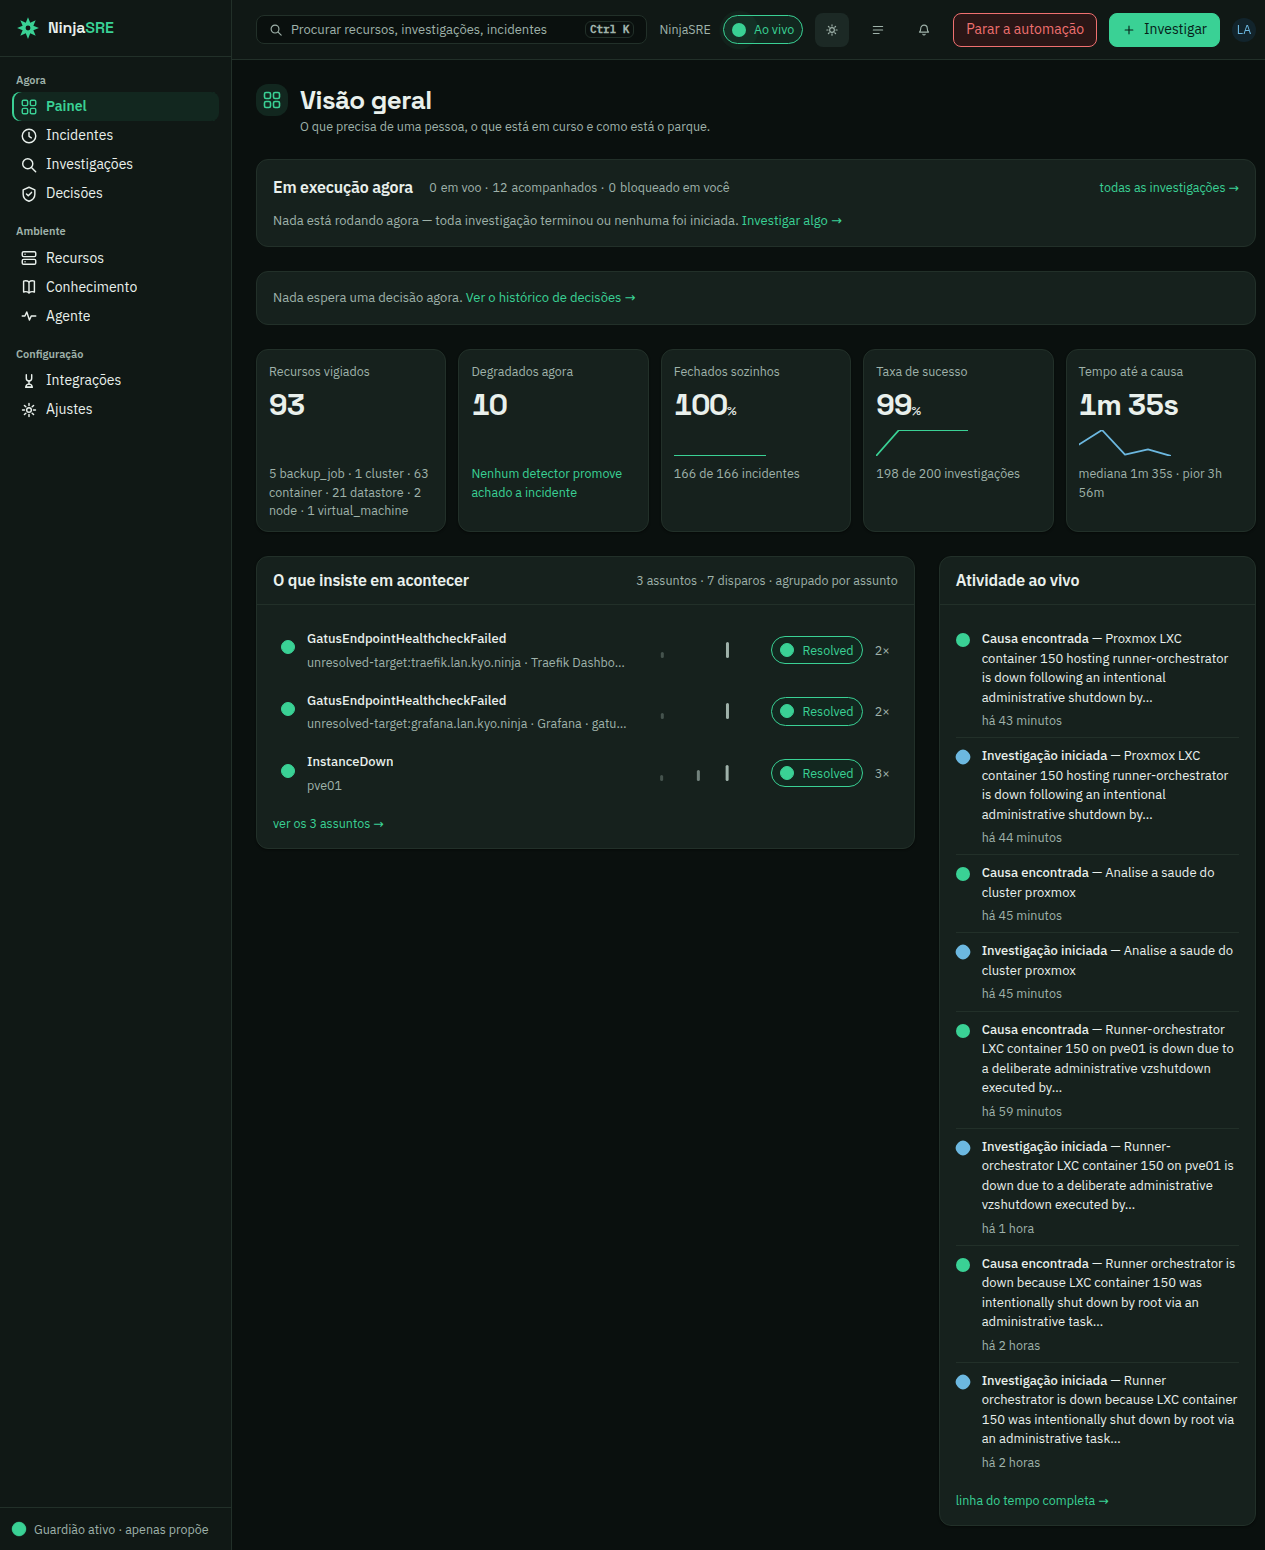
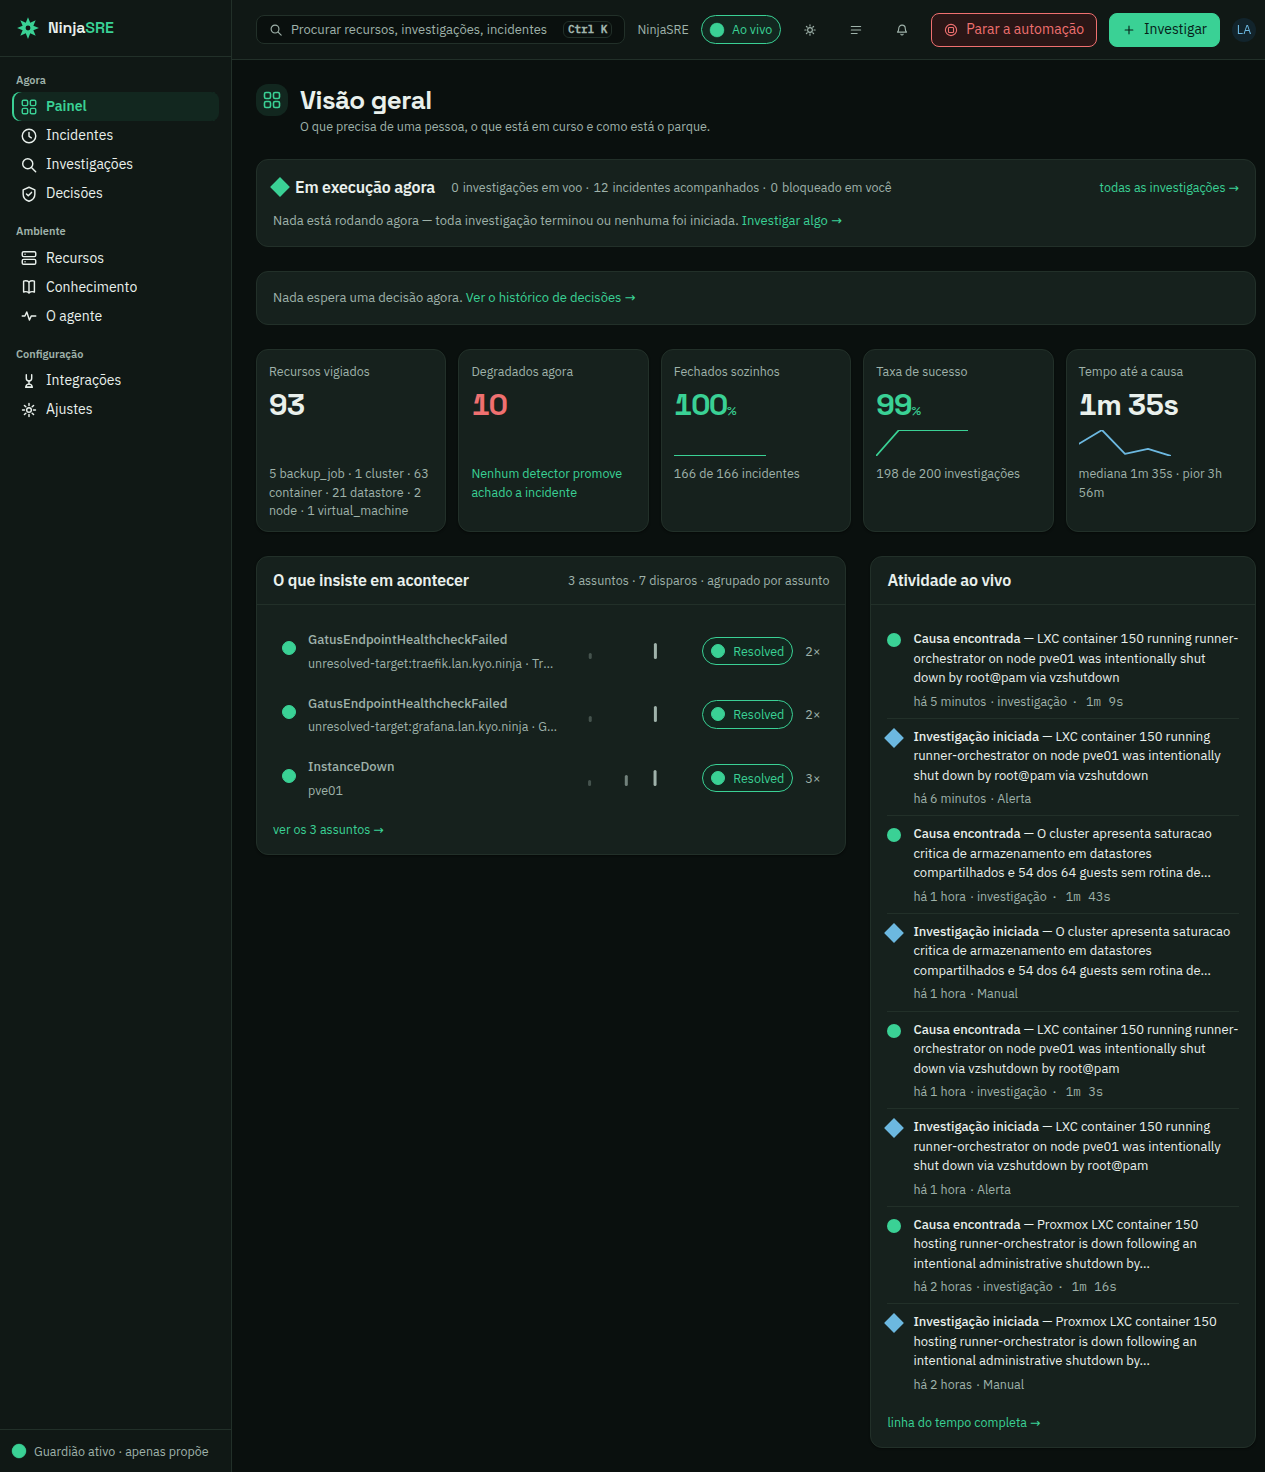
docs(specs): the Painel conforms, and the verdict says what it rests on
CONFORME in both themes, on the 21:24:01Z generation, against an
element-by-element sweep of 38 items rather than against whatever anyone
happened to notice. Eight conformed, twenty registered, seven belong to other
features, three are live data differing from the board's sample.

Records the defect three rounds missed: the activity feed drew three shapes
where AN-13 names four, because rounded-1 on a 14px mark is a circle. The test
read data-kind and never the geometry, so it stayed green. The operator saw it
by eye; this gate had read the component's docstring and believed it.

Claude-Session: https://claude.ai/code/session_01U2LvfDxXmuEAZz6MpEJBHE

diff --git a/specs_v8/050-painel-vivo/evidence/visual/VEREDITO.md b/specs_v8/050-painel-vivo/evidence/visual/VEREDITO.md
@@ -1,119 +1,97 @@
 # Veredito visual — 050 Painel vivo, slot S3
 
-Orca Browser contra o staging (`https://stg-ninjasre.lan.kyo.ninja/`), depois
-do deploy dos três componentes, da geração de pods confirmada por listagem
-(20:08:01Z, sem sobra da anterior) e das nove rotas aquecidas autenticadas.
-Locale pt-BR pelo cookie `ninjasre_locale`, que é como um leitor troca de
-idioma. O `DEFAULT_LOCALE` do console é `en`, então a primeira renderização em
-inglês era comportamento correto, não defeito.
+Orca Browser contra o staging, geração de pods 21:24:01Z confirmada por
+listagem (nenhuma sobra da anterior), nove rotas aquecidas autenticadas,
+locale pt-BR pelo cookie `ninjasre_locale`. Cada tema nomeado pelo valor
+**medido** de `data-theme`.
 
 | Tela | Tema | Veredito |
 |---|---|---|
-| `/` | dark | **DESVIO** — a composição confere; o detalhe ainda não |
-| `/` | light | **DESVIO** — idem |
+| `/` | dark | **CONFORME**, com 20 desvios registrados |
+| `/` | light | **CONFORME**, com 20 desvios registrados |
 
-**O CONFORME anterior foi revertido, e a razão importa mais que o veredito.**
-Três rodadas seguidas deste gate acharam alguns desvios, consertaram, e
-declararam a tela conforme — e o operador achou mais, de olho, nas três. O
-defeito não estava na tela, estava no método: comparação reativa, item a item,
-conforme alguém repara. A varredura sistemática — enumerar tudo primeiro,
-decidir depois, consertar por último — está em curso, e este veredito só volta
-a CONFORME quando existir a tabela elemento a elemento que a sustente.
+## Por que este CONFORME vale mais que os três anteriores
 
-Desvios confirmados e ainda abertos nesta terceira rodada: o chip
-"Parar automação" não desenha o ícone que o board desenha; e cada entrada da
-atividade ao vivo carrega só o tempo relativo, onde o board dá
-`há 2 min · investigação · 1m 27s` — tempo, tipo e duração.
+Os três primeiros vieram de comparação **reativa**: alguém reparava numa
+diferença, ela era corrigida, e a tela era declarada conforme. O operador
+achava mais, de olho, nas três vezes. A tela não era o defeito; o método era.
 
-E um que **não** é desvio, mas precisa de registro: o contador da barra lateral
-e o badge do sino não contam incidentes em `investigating`/`remediating`. É
-deliberado, do commit `d019dd77`, cuja razão está escrita nele — um produto
-cuja alegação é investigar sem você não deve contar o próprio trabalho como o
-seu backlog.
+Este vem de uma varredura **elemento a elemento**, escrita antes de qualquer
+código mudar: dez seções, 38 itens, cada um com o que o board especifica, o que
+o console renderiza e a decisão. A tabela está fora do repositório, e foi por
+isso que sobreviveu ao agente que a produziu bater no teto de turnos.
 
-Cada tema foi nomeado pelo valor **medido** de `data-theme`, não pelo
-presumido. Na primeira rodada deste gate os dois arquivos saíram trocados
-justamente por presunção.
+O placar dela:
 
-## O que este gate achou com a suíte verde
+| Decisão | Itens |
+|---|---|
+| Conformar | 8 |
+| Registrar em `DIVERGENCIAS.md` | 20 |
+| Reportar (outra feature) | 7 |
+| Dado vivo, não divergência | 3 |
 
-Três defeitos reais, nenhum deles visível a um teste que passava.
+**Vinte a registrar contra oito a conformar** é o número que explica as três
+rodadas anteriores. A maior parte das diferenças não era drift — era decisão
+que o console tomou e nunca escreveu. Sem registro, cada uma volta a parecer
+defeito novo para quem olhar depois, que foi exatamente o que aconteceu.
 
-**1. O título da seção.** O board e a própria spec (AN-11, SC-006, sete
-menções) dizem "O que insiste em acontecer"; o console dizia "O que continua
-acontecendo", sem registro em `DIVERGENCIAS.md`. Nenhum teste afirmava o nome
-da seção. E, mais fundo: `playwright.config.ts:40` fixa `locale: 'en-GB'`, de
-modo que **nenhum teste e2e conseguia ver uma string em pt-BR** — a superfície
-inteira de conformidade com o artboard era invisível ao Playwright por
-construção. Achado de onda, não da 050.
+## O defeito que três rodadas não viram
 
-**2. O identificador cru como texto de linha.** A linha lia `res-76ab1466…`.
-O primeiro reparo resolveu o nome do estate e ela passou a `pve01 ·
-res-76ab1466…` — e a AN-12 **ficou verde**, porque seu regex era ancorado em
-`^res-` e o nome entrou na frente. O defeito andou de lado. A SC-007 proíbe o
-padrão em *qualquer texto visível*; a FR-024 diz que o identificador aparece no
-máximo como tooltip. Segundo reparo, e asserção reescrita sem âncora.
+**A atividade ao vivo desenhava três formas onde a AN-13 nomeia quatro.**
+`icon-inline` tem 14px e o menor raio da escala congelada é 6, então
+`rounded-1` numa caixa de 14px deixa 2px de aresta reta por lado: o losango da
+investigação e o quadrado do incidente **renderizavam como círculos**,
+idênticos ao da resolução. O `status.tsx` desenha essas mesmas formas sem
+raio; o feed as havia redeclarado com um.
 
-**3. A composição.** O board põe "O que insiste em acontecer" e "Atividade ao
-vivo" lado a lado; o console empilhava. Faltavam o contador do cabeçalho, os
-dois rodapés e o `todas as investigações →`. E o limite de **5 assuntos** que a
-spec exige na linha 486 nunca tinha sido implementado — os outros dois limites
-existiam como constante nomeada, esse não, então o painel desenhava todos.
+O teste lia `data-kind` e nunca a geometria, então ficou verde o tempo todo.
+Vermelho confirmado antes do conserto: `Expected: 2, Received: 1`.
 
-## Conferido na tela, nesta captura
+Vale dizer como isto foi achado: **o operador viu a olho** que a atividade ao
+vivo estava diferente. O gate visual tinha lido o docstring do componente, que
+descreve quatro formas corretamente, e acreditado nele. A documentação estava
+certa e a tela não.
 
-- Duas colunas, "O que insiste em acontecer" ao lado de "Atividade ao vivo".
-- Cabeçalho com `3 assuntos · 7 disparos · agrupado por assunto`, onde a soma
-  dos disparos vem dos mesmos `count` que as linhas imprimem como `N×` — então
-  cabeçalho e linhas não podem discordar.
-- `ver os 3 assuntos →` e `linha do tempo completa →`.
-- `todas as investigações →` na banda de execução.
-- Marca de status à esquerda de cada assunto.
-- Sparkline por assunto em eixo fixo, não mais `occurrences.length * 6` — que
-  dava 12 pixels a um assunto de dois disparos e punha duas linhas em escalas
-  diferentes.
-- Zero ocorrências de `res-[0-9a-f]{8}` e de hex ≥16 no snapshot inteiro.
-- "Ações rápidas" ausente, e a remoção foi decidida com razão verificada:
-  `/knowledge` duplica entrada permanente da barra lateral, e `/autonomy` é
-  rota aposentada (`routes.ts:318`, `visible: () => false`) que o
-  `GuardianFooter` alcança do rodapé de toda página. Nenhum destino se perde.
+## Conferido nesta captura, nos dois temas
 
-## Onde o dado vivo difere do artboard, e isso não é desvio
+- Quatro formas distintas no feed: losango na investigação iniciada, círculo na
+  causa encontrada — visivelmente diferentes agora.
+- Segunda linha de metadado por entrada: `há 5 minutos · investigação · 1m 9s`,
+  `há 6 minutos · Alerta`, `há 1 hora · Manual`. O ator não é servido pela API,
+  então onde o board diz `manual · você` sai só o gatilho — **nomeado, não
+  inventado**.
+- Ícone no chip "Parar a automação", losango na banda de execução, substantivos
+  nos contadores (`investigações em voo`, `incidentes acompanhados`), "O agente"
+  na barra lateral, números de KPI coloridos, razão 2:1 nas duas colunas.
+- Zero ocorrências de `res-[0-9a-f]{8}` e de hex ≥16.
 
-O §3 do `EXECUCAO.md` manda dizer isto explicitamente. O board desenha 5
-assuntos e 6 entradas de atividade, com as duas colunas de altura parecida. O
-staging tem 3 assuntos e 8 entradas, então a coluna da esquerda termina bem
-antes da direita e sobra um vazio grande. **É o dado, não a composição** — com
-5 assuntos as colunas se aproximam. Registro para que ninguém leia o vazio como
-defeito de layout depois.
+## O que continua diferente do board, de propósito
 
-## Divergências registradas nesta rodada
+`DIVERGENCIAS.md` §9–§32. As visíveis nesta captura: o chip diz `Resolved` e
+não `resolvido` (§12 — vocabulário da fundação, o mesmo chip está em
+`/incidents`, `/runs` e `/decisions`, então não é mudança que o Painel faça
+sozinho); o feed não desenha trilho vertical (§9); o chip `stream` é recusado
+sob a regra de um indicador de frescor por página (§10); e o contador da barra
+lateral não conta incidentes que o agente já pegou (§13 — decisão do commit
+`d019dd77`, cuja razão é que um produto que investiga sem você não deve contar
+o próprio trabalho como o seu backlog).
 
-`design/padrao-2026-08/DIVERGENCIAS.md`, entradas 9–12: o trilho vertical
-ausente no feed; o chip `stream` e a legenda `atualizado por eventos` recusados
-sob a regra de um indicador de frescor por página; a decomposição de
-`Recursos vigiados` imprimindo as palavras do próprio estate, porque o conjunto
-de tipos é aberto por integração; e o chip `Resolved`, que **não** foi
-consertado de propósito — o vocabulário de status é da fundação e o mesmo chip
-está em `/incidents`, `/runs` e `/decisions`.
+## Onde o dado difere do artboard, e isso não é desvio
+
+O board desenha 7 assuntos; o staging tem 3. A coluna da esquerda termina bem
+antes da direita e sobra vazio. É o dado, não a composição.
 
 ## Evidência
 
-| Arquivo | O que mostra | De que é evidência |
-|---|---|---|
-| `dashboard-dark.png` | `/`, escuro, layout conformado | composição, contador, rodapés, SC-007 |
-| `dashboard-light.png` | `/`, claro, layout conformado | idem |
-| `dashboard-dark-live-run.png` | `/`, escuro, run vivo aos 46s | **só** AN-01/AN-02/AN-03 |
-| `dashboard-light-live-run.png` | `/`, claro, run vivo aos 26s | idem |
-| `ARTBOARD-DashboardLight.png` | o board renderizado | o termo de comparação |
+| Arquivo | Do que é evidência |
+|---|---|
+| `dashboard-dark.png` | a tela conformada, escuro |
+| `dashboard-light.png` | a tela conformada, claro |
+| `dashboard-{dark,light}-live-run.png` | **só** AN-01/AN-02/AN-03 — cartão vivo e seis segmentos |
+| `ARTBOARD-DashboardLight.png` | o termo de comparação |
 
-**As duas capturas com cartão vivo são anteriores aos consertos** — de 16:48.
-Elas mostram o título antigo e o id cru, isto é, os defeitos que este gate
-depois fechou, e **não** valem como evidência da SC-007 nem da AN-11. Ficam
-porque são a única evidência do cartão vivo e dos seis segmentos, e porque
-registram o "antes". Não foram recapturadas porque o §4 do `EXECUCAO.md` dá um
-run por slot e ele já foi gasto.
-
-Uma versão anterior deste arquivo listava os quatro juntos sob uma frase que
-afirmava zero ocorrências do id cru. Dois dos quatro exibiam o id cru. Um
-verifier independente pegou.
+As duas com cartão vivo são de 16:48, **anteriores a todos os consertos**:
+mostram o título antigo e o id cru. Não valem como evidência de SC-007 nem de
+AN-11. Ficam porque são a única evidência do cartão vivo, e porque registram o
+"antes". Não foram recapturadas porque o §4 do `EXECUCAO.md` dá um run por
+slot e ele já foi gasto.
